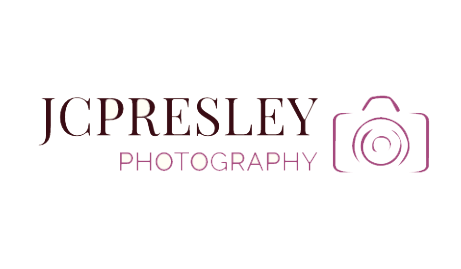
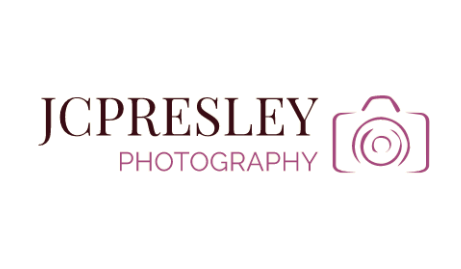
version 2
new version

diff --git a/JCPresley/HTML/styleabout.css b/JCPresley/HTML/styleabout.css
@@ -1,0 +1,118 @@
+body, head, html {
+    height: 100%;
+}
+
+* {
+    box-sizing: border-box;
+    margin: 0;
+    padding: 0;
+}
+
+body{
+    background-image: url(pictures/blackfog.jpg);
+    background-repeat: repeat;
+        height: 100%;
+        width: 100%;
+    background-position: center;
+    background-size:cover;
+    position: absolute;
+    }
+
+    
+#sidebar {
+    position: fixed;
+    height: 100%;
+    width: 100%;
+    top: 0;
+    left: 20px;
+    height: 100%;
+    width: 320px;
+    background-color: #fff;
+    color: #fff;
+    padding: 5px;
+}
+
+
+.companyimage {
+    width: 280px;
+    height: 150px;
+    margin-top: 0;
+}
+
+.side-panel {
+    width: 150px;
+    margin-left: 75px;
+    margin-top: 85%;
+}
+
+.buttons button {
+    border: none;
+    display: block;
+    background-color: white;
+    color: black;
+    border-radius: 20px;
+    margin-bottom: 5px;
+    margin-left: 30%;
+    margin-top: 30%;
+    height: 20px;
+    width: 75px;
+    cursor: pointer;
+    font-family:'Segoe UI', Tahoma, Geneva, Verdana, sans-serif;
+    font-size: 15px;
+}
+
+button:hover {
+    color: #000;
+    background-color: #fff;
+    transition-duration: 0.25s;
+}
+
+.side-panel a {
+    text-decoration: none;
+}
+
+.social-panel {
+    margin-top: 100%;
+ 
+    margin-left: 25px;
+
+    padding-top: 30%;
+}
+
+
+
+.buttons2 button, img {
+    border: none;
+    height: 30px;
+    width: 30px;
+    margin-left: 25px;
+    bottom: 0;
+    left: 0;
+}
+
+button:hover {
+    cursor: pointer;
+}
+
+.homeimages{
+    display: block;
+    margin-left: 19.5%;
+    min-width: 600px;
+    left: 50%;
+    top:  50%;
+
+   
+}
+
+.homeimages img{
+    margin-top: 20px;
+    margin-bottom: 20px;
+    position: relative;
+    object-fit:cover;
+   
+    height: 340px;
+    width: 340px;
+    border-radius: 20px;
+   
+
+}

diff --git a/JCPresley/HTML/style.css b/JCPresley/HTML/style.css
@@ -1,6 +1,9 @@
 body, head, html {
     height: 100%;
+    
 }
+
+
 
 * {
     box-sizing: border-box;
@@ -8,16 +11,17 @@ body, head, html {
     padding: 0;
 }
 
-.background {
+body{
     background-image: url(pictures/blackfog.jpg);
     background-repeat: repeat;
-    height: 100%;
-    width: 100%;
+        height: 100%;
+        width: 100%;
     background-position: center;
-    background-size: cover;
-    min-height: 100vh;
+    background-size:cover;
     position: absolute;
     }
+
+    
 #sidebar {
     position: fixed;
     height: 100%;
@@ -47,14 +51,16 @@ body, head, html {
 .buttons button {
     border: none;
     display: block;
-    background-color: #ce3165;
-    color: #fdfbfb;
+    background-color: white;
+    color: black;
     border-radius: 20px;
     margin-bottom: 5px;
-    height: 40px;
-    width: 150px;
+    margin-left: 30%;
+    margin-top: 20%;
+    height: 20px;
+    width: 75px;
     cursor: pointer;
-    font-family:'Gill Sans', 'Gill Sans MT', Calibri, 'Trebuchet MS', sans-serif;
+    font-family: 'Prompt', sans-serif;
     font-size: 15px;
 }
 
@@ -70,8 +76,10 @@ button:hover {
 
 .social-panel {
     margin-top: 100%;
+ 
     margin-left: 25px;
-    padding-top: 40px;
+
+    padding-top: 30%;
 }
 
 
@@ -90,16 +98,24 @@ button:hover {
 }
 
 .homeimages{
-
-    margin-left: 20%;
-    margin-top: 0;
     display: block;
+    margin-left: 19.5%;
+    min-width: 600px;
+    left: 50%;
+    top:  50%;
+
+   
 }
 
 .homeimages img{
-        position: relative;
-    object-fit: contain;
-    padding-bottom: 20px;
+    margin-top: 20px;
+    margin-bottom: 20px;
+    position: relative;
+    object-fit:cover;
+   
     height: 340px;
     width: 340px;
+    border-radius: 20px;
+   
+
 }

diff --git a/JCPresley/HTML/index.html b/JCPresley/HTML/index.html
@@ -2,6 +2,10 @@
 <html>
   
   <head>
+    <link rel="preconnect" href="https://fonts.googleapis.com">
+    <link rel="preconnect" href="https://fonts.gstatic.com" crossorigin>
+    <link href="https://fonts.googleapis.com/css2?family=Prompt:wght@200&display=swap" rel="stylesheet">
+
 
     <title>JCPresley</title>
     <link rel="stylesheet" href="style.css" />
@@ -9,31 +13,33 @@
     
   </head>
 
-  <div class="background">
  
-  </div>
-
   <body>
 
+    <div class="background">
+ 
+    </div>
+  
     
     <div class="homeimages">
-      <img src="pictures/1_1.jpeg" />
-      <img src="pictures/1_2.jpeg" />
-      <img src="pictures/1_3.jpeg" />
-      <img src="pictures/1_4.jpeg" />
-      <img src="pictures/1_5.jpeg" />
-      <img src="pictures/1_6.jpeg" />
-      <img src="pictures/1.jpg" />
-      <img src="pictures/2.jpg" />
-      <img src="pictures/3.jpg" />
-      <img src="pictures/4.jpg" />
-      <img src="pictures/5.jpg" />
-      <img src="pictures/6.jpg" />
+      
+      <img src="pictures/1_1.jpg" />
+      <img src="pictures/1_2.jpg" />
+      <img src="pictures/1_3.jpg" />
+      <img src="pictures/1_4.jpg" />
+      <img src="pictures/1_5.jpg" />
+      <img src="pictures/1_6.jpg" />
+      <img src="pictures/1_7.jpg" />
+      <img src="pictures/1_8.jpg" />
+      <img src="pictures/1_9.jpg" />
+      <img src="pictures/1_10.jpg" />
+      <img src="pictures/1_11.jpg" />
+      <img src="pictures/1_12.jpg" />
 
     </div>
 
     <div id="sidebar">
-      <img class="companyimage" src="pictures/JCPresley.png" />
+      <img class="companyimage" src="pictures/JCPresley2.png" />
 
       <div class="side-panel">
         <div class="buttons">

diff --git a/JCPresley/HTML/contact.html b/JCPresley/HTML/contact.html
@@ -17,20 +17,25 @@
     </div>
 
     <div class="contactsection2">
+
         <label for="fname">First name:</label>
-        <input type="text" id="fname" name="fname">
+        <input type="text" id="fname" name="fname" placeholder="first" required>
         <br><br>
-        <label for="fname">Last name:</label>
-        <input type="text" id="lname" name="lname">
+
+        <label for="lname">Last name:</label>
+        <input type="text" id="lname" name="lname" placeholder="last" required>
         <br><br>
-        <label for="fname">Phone: &nbsp&nbsp&nbsp&nbsp &nbsp </label>
-        <input type="text" id="number" name="number">
+
+        <label for="number">Phone: &nbsp&nbsp&nbsp&nbsp &nbsp </label>
+        <input type="text" id="number" name="number" placeholder="first" required>
         <br><br>
-        <label for="fname">E-Mail: &nbsp &nbsp&nbsp&nbsp  </label>
-        <input type="text" id="mail" name="mail">
+
+        <label for="mail">E-Mail: &nbsp &nbsp&nbsp&nbsp </label>
+        <input type="email" id="mail" name="mail" placeholder="E-Mail" required>
         <br><br>
-        <label for="fname">Message: &nbsp&nbsp </label>
-        <input type="text" id="message" name="message" style="width: 175px;" style="width: 175px;">
+
+        <label for="message">Message: &nbsp&nbsp </label>
+        <input type="text" id="message" name="message" style="width: 175px;" style="width: 175px;" placeholder="Inquiries here: " required>
 
         <div class="contactbuttons">
             <button>Send Email</button>

diff --git a/JCPresley/HTML/about.html b/JCPresley/HTML/about.html
@@ -4,7 +4,7 @@
   <head>
 
     <title>JCPresley</title>
-    <link rel="stylesheet" href="style.css" />
+    <link rel="stylesheet" href="styleabout.css" />
 
     
   </head>
@@ -13,6 +13,12 @@
 
   <body>
 
+    <div class="homeimages">
+      
+      <img src="caroline1.jpeg" />
+
+
+    </div>
 
     <div id="sidebar">
       <img class="companyimage" src="pictures/JCPresley.png" />
@@ -63,5 +69,6 @@
         </div>
       </div>
     </div>
+
   </body>
 </html>
